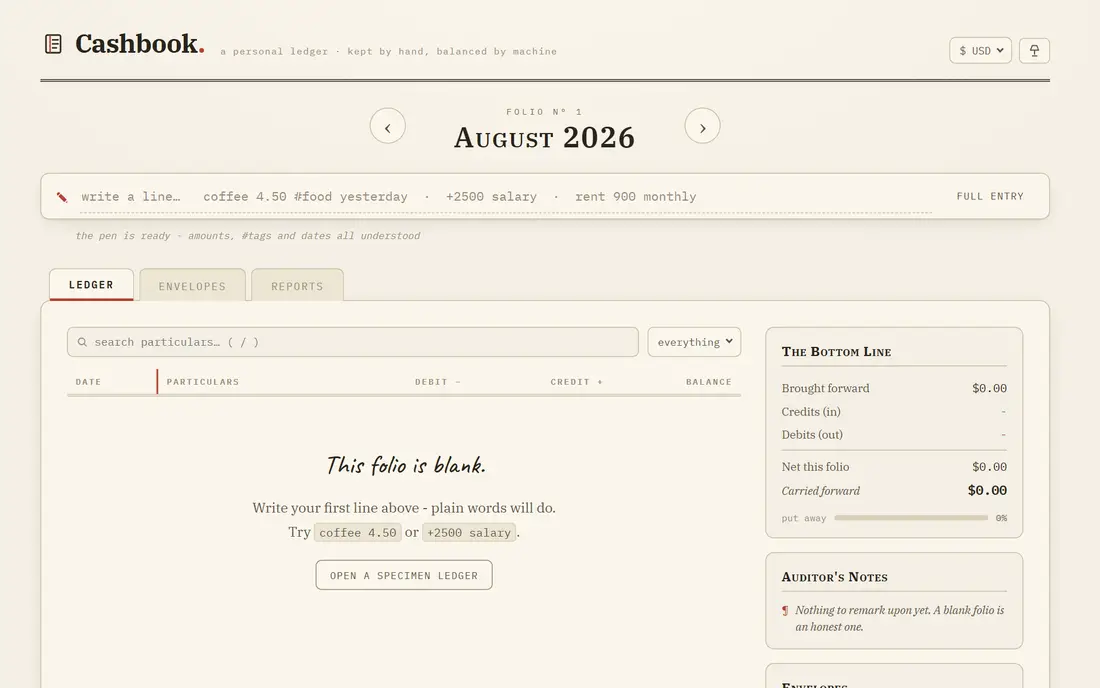
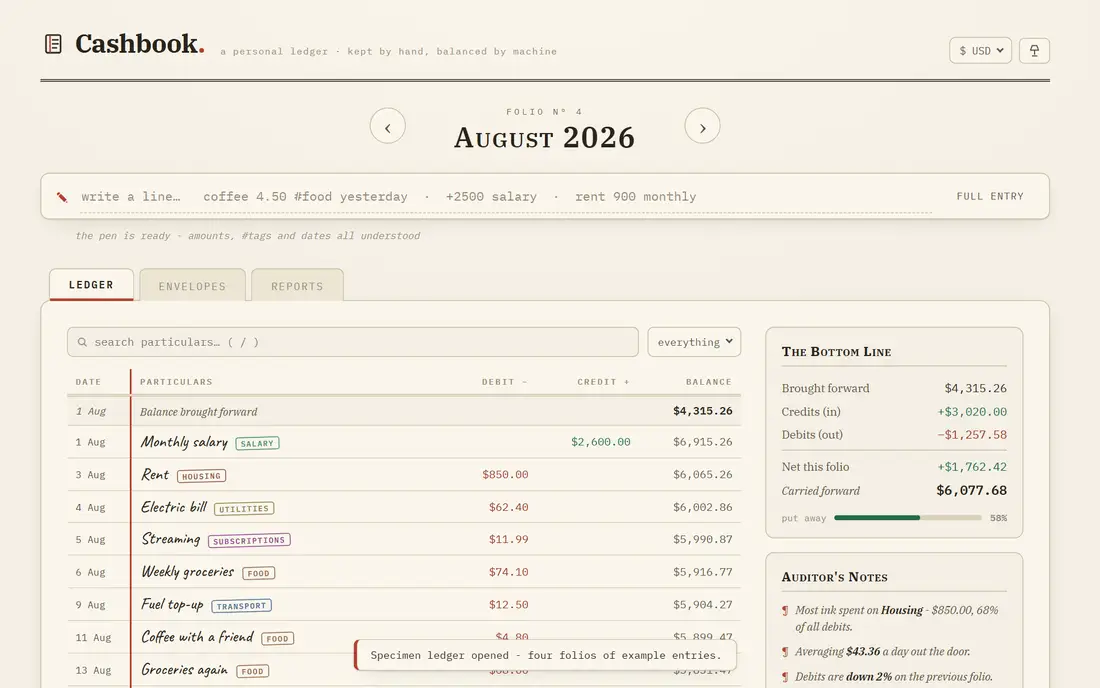
fix(soundroom): rebuild album data on version bump, real default album
Returning visitors had stale localStorage with the pre-rename cover
paths, and the re-hydration only fixed empty/blob entries - so the art
stayed broken. Added an album-data version key: a bump wipes the old
store and rebuilds from presets. Replaced the empty "GNX" blank-pressing
default with a real To Pimp a Butterfly preset off the kenny folder.

Also re-shot five portfolio thumbnails that were showing empty or
loading states: cashbook (specimen ledger loaded), taskly (sample
tasks), windows-11 (Notepad + Calculator open), tic-tac-toe (a
finished game), soundroom (on the deck with covers).

diff --git a/soundroom/script.js b/soundroom/script.js
@@ -8,32 +8,35 @@
 /* ── Preset albums ───────────────────────────── */
 const SP = '../spotify-clone/songs/';  // shared songs folder
 
-const GNX_SONGS = [
-  { title: 'wacced out murals',    artist: 'Kendrick Lamar', file: 'songs/1.mp3',  cover: 'covers/1.jpg',  duration: '5:17', lyrics: '' },
-  { title: 'squabble up',          artist: 'Kendrick Lamar', file: 'songs/2.mp3',  cover: 'covers/2.jpg',  duration: '2:37', lyrics: '' },
-  { title: "can't be humble",      artist: 'Kendrick Lamar', file: 'songs/3.mp3',  cover: 'covers/3.jpg',  duration: '2:39', lyrics: '' },
-  { title: 'tv off',               artist: 'Kendrick Lamar', file: 'songs/4.mp3',  cover: 'covers/4.jpg',  duration: '2:51', lyrics: '' },
-  { title: 'man at the garden',    artist: 'Kendrick Lamar', file: 'songs/5.mp3',  cover: 'covers/5.jpg',  duration: '3:31', lyrics: '' },
-  { title: 'heart pt 6',           artist: 'Kendrick Lamar', file: 'songs/6.mp3',  cover: 'covers/6.jpg',  duration: '4:09', lyrics: '' },
-  { title: 'reincarnated',         artist: 'Kendrick Lamar', file: 'songs/7.mp3',  cover: 'covers/7.jpg',  duration: '4:04', lyrics: '' },
-  { title: 'dodger blue',          artist: 'Kendrick Lamar', file: 'songs/8.mp3',  cover: 'covers/8.jpg',  duration: '3:29', lyrics: '' },
-  { title: 'peekaboo',             artist: 'Kendrick Lamar', file: 'songs/9.mp3',  cover: 'covers/9.jpg',  duration: '3:19', lyrics: '' },
-  { title: 'luther',               artist: 'Kendrick Lamar', file: 'songs/10.mp3', cover: 'covers/10.jpg', duration: '3:18', lyrics: '' },
-  { title: 'man at the garden II', artist: 'Kendrick Lamar', file: 'songs/11.mp3', cover: 'covers/11.jpg', duration: '2:56', lyrics: '' },
-  { title: 'gloria',               artist: 'Kendrick Lamar', file: 'songs/12.mp3', cover: 'covers/12.jpg', duration: '4:47', lyrics: '' },
-];
-
-const GNX_DEFAULT = {
-  id: 'gnx-default', title: 'GNX', artist: 'Kendrick Lamar',
-  year: '2024', genre: 'Hip-Hop', accent: '#e8933a',
-  artUrl: 'covers/1.jpg', bgUrl: 'bg.webp', songs: GNX_SONGS,
-  notes: "A blank pressing. Drop numbered rips (1.mp3, 2.mp3 ...) into this project's /songs folder and cover art into /covers to cut the record.",
-};
-
 function sp(folder, file, title, artist) {
   return { title, artist, file: SP + folder + '/' + file,
            cover: SP + folder + '/cover.jpg', duration: '-', lyrics: '' };
 }
+
+const TPAB_DEFAULT = {
+  id: 'kendrick-tpab', title: 'To Pimp a Butterfly', artist: 'Kendrick Lamar',
+  year: '2015', genre: 'Hip-Hop / Jazz', accent: '#c98a3c',
+  artUrl: SP + 'kenny/cover.jpg', bgUrl: SP + 'kenny/cover.jpg',
+  songs: [
+    sp('kenny', "1. Wesley's Theory.mp3", "Wesley's Theory", 'Kendrick Lamar'),
+    sp('kenny', '2. For Free_ - Interlude.mp3', 'For Free? (Interlude)', 'Kendrick Lamar'),
+    sp('kenny', '3. King Kunta.mp3', 'King Kunta', 'Kendrick Lamar'),
+    sp('kenny', '4. Institutionalized.mp3', 'Institutionalized', 'Kendrick Lamar'),
+    sp('kenny', '5. These Walls.mp3', 'These Walls', 'Kendrick Lamar'),
+    sp('kenny', '6. u.mp3', 'u', 'Kendrick Lamar'),
+    sp('kenny', '7. Alright.mp3', 'Alright', 'Kendrick Lamar'),
+    sp('kenny', '8. For Sale_ - Interlude.mp3', 'For Sale? (Interlude)', 'Kendrick Lamar'),
+    sp('kenny', '9. Momma.mp3', 'Momma', 'Kendrick Lamar'),
+    sp('kenny', '10. Hood Politics.mp3', 'Hood Politics', 'Kendrick Lamar'),
+    sp('kenny', '11. How Much A Dollar Cost.mp3', 'How Much a Dollar Cost', 'Kendrick Lamar'),
+    sp('kenny', '12. Complexion (A Zulu Love).mp3', 'Complexion (A Zulu Love)', 'Kendrick Lamar'),
+    sp('kenny', '13. The Blacker The Berry.mp3', 'The Blacker the Berry', 'Kendrick Lamar'),
+    sp('kenny', "14. You Ain't Gotta Lie (Momma Said).mp3", "You Ain't Gotta Lie (Momma Said)", 'Kendrick Lamar'),
+    sp('kenny', '15. i.mp3', 'i', 'Kendrick Lamar'),
+    sp('kenny', '16. Mortal Man.mp3', 'Mortal Man', 'Kendrick Lamar'),
+  ],
+  notes: '',
+};
 
 const PRESET_ALBUMS = [
   {
@@ -188,7 +191,7 @@ const PRESET_ALBUMS = [
       sp('weeknd','14. Until I Bleed Out.mp3','Until I Bleed Out','The Weeknd'),
     ],
   },
-  GNX_DEFAULT,
+  TPAB_DEFAULT,
 ];
 
 /* ── State ──────────────────────────────────── */
@@ -509,32 +512,38 @@ function syncTrackDropdown() {
   valueEl.textContent = sel ? sel.textContent : '-';
 }
 
+const SR_ALBUM_VER = '3'; // bump when preset albums or bundled paths change
+
 function initAlbums() {
-  const stored = loadStoredAlbums();
+  let stored = null;
+  try {
+    if (localStorage.getItem('albumStudio_ver') === SR_ALBUM_VER) stored = loadStoredAlbums();
+  } catch (e) {}
+
+  const kept = (p) => typeof p === 'string' && (p.startsWith('blob:') || p.startsWith('data:'));
+
   if (stored && stored.length) {
     albums = stored;
-    // Re-hydrate file paths for presets (blob URLs don't persist across sessions)
+    // re-derive bundled asset paths for preset albums (they aren't persisted in full)
     albums.forEach(a => {
       const preset = PRESET_ALBUMS.find(p => p.id === a.id);
-      if (preset) {
-        a.songs.forEach((s, i) => {
-          if (!s.file  || s.file.startsWith('blob:'))  s.file  = preset.songs[i] ? preset.songs[i].file  : '';
-          if (!s.cover || s.cover.startsWith('blob:')) s.cover = preset.songs[i] ? preset.songs[i].cover : '';
-        });
-        if (!a.artUrl || a.artUrl.startsWith('blob:')) a.artUrl = preset.artUrl;
-        if (!a.bgUrl  || a.bgUrl.startsWith('blob:'))  a.bgUrl  = preset.bgUrl;
-      }
+      if (!preset) return;
+      if (!kept(a.artUrl)) a.artUrl = preset.artUrl;
+      if (!kept(a.bgUrl))  a.bgUrl  = preset.bgUrl;
+      (a.songs || []).forEach((s, i) => {
+        const ps = preset.songs[i];
+        if (!kept(s.file))  s.file  = ps ? ps.file  : '';
+        if (!kept(s.cover)) s.cover = ps ? ps.cover : preset.artUrl;
+      });
     });
-    // Add any preset albums that aren't in stored data yet
     PRESET_ALBUMS.forEach(preset => {
-      if (!albums.find(a => a.id === preset.id)) {
-        albums.push(cloneAlbum(preset));
-      }
+      if (!albums.find(a => a.id === preset.id)) albums.push(cloneAlbum(preset));
     });
   } else {
     albums = PRESET_ALBUMS.map(p => cloneAlbum(p));
   }
   activeAlbum = albums[0];
+  try { localStorage.setItem('albumStudio_ver', SR_ALBUM_VER); } catch (e) {}
 }
 
 /* ══════════════════════════════════════════════
